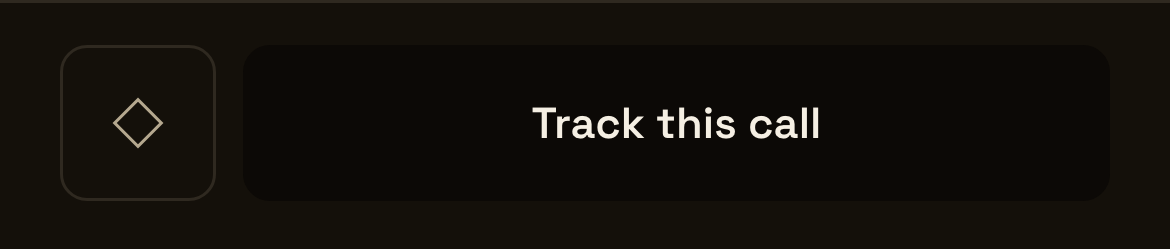
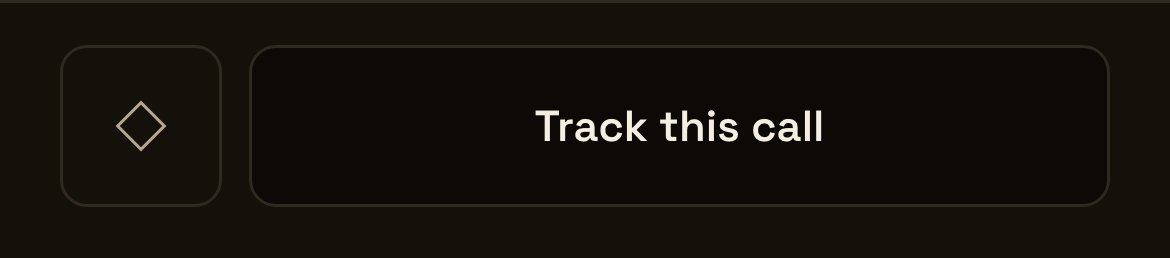
Claim detail: re-plate the fixed layout, record what the suite cannot reach
Plates recaptured against the same real brief call. The two body crops are
replaced by whole-screen crops, because the body crop was evidence of the
layout that just changed: the screen now ends under its own action bar and the
old crop showed the stretched column. The dark bar plate carries the new edge on
the live primary.

The missing plate is recaptured for the corrected copy.

The e2e header now records a limitation rather than a quiet day. Every route
into the screen in that file starts at /ledger, which draws today's brief, so
the only adopted calls it can reach are calls adopted today. An adopted call on
an older brief is exactly the state this route exists for, and this suite cannot
navigate to it.

Claude-Session: https://claude.ai/code/session_016MXsWHKprGBWhV6LECbnnd

diff --git a/e2e/claim-detail.spec.ts b/e2e/claim-detail.spec.ts
@@ -37,6 +37,16 @@
  * is created here, because creating one is a write. Each skips with a stated
  * reason when the day does not carry it, which is a fact about the brief and
  * not a failure of the screen.
+ *
+ * AND THE SECOND OF THOSE IS A REAL LIMITATION OF THIS SUITE, not just a quiet
+ * day. Every route into the screen here starts at /ledger, which draws TODAY's
+ * brief, so the only adopted calls this file can reach are calls adopted from
+ * today. An independent measurement of this branch found an adopted call on an
+ * OLDER brief and reached its screen by address; that is the state /claim
+ * exists for, because a call adopted while its window is open has no /entry
+ * page, and this suite structurally cannot navigate to it. Covering it needs an
+ * entry point that lists a reader's open commitments, or a fixture target, and
+ * neither exists today. Recorded rather than papered over.
  */
 import { test as base, expect, type Page, type Route } from "@playwright/test";
 import { signIn } from "./auth-helper";

diff --git a/src/components/claim/claim-screen.tsx b/src/components/claim/claim-screen.tsx
@@ -56,9 +56,10 @@ const PAD = "var(--v3-pad)";
  * looks like, rather than a gap framed by a rule.
  *
  * `minHeight: 100%` STILL PAINTS THE WHOLE BOX, and that part is load bearing:
- * `main#main-content` is `bg-parchment` (#faf7f2 light, #0f0f0f dark) and this
- * screen is `--c-bg` (#fffdf9, #14100a), so a screen that shrink-wrapped its
- * content would draw a visible two-tone seam across the phone. It resolves
+ * `main#main-content` fills with `bg-parchment` and this screen fills with
+ * `--c-bg`, and those two are not the same value in EITHER theme, so a screen
+ * that shrink-wrapped its content would draw a visible two-tone seam across the
+ * phone. Measured 785px of screen inside an 844px viewport. It resolves
  * against the definite height `main` gives the subtree, which is why the page's
  * gate div carries `h-full`; see the comment there and the longer one at
  * `src/app/ledger/page.tsx:114-123`. */

diff --git a/src/components/claim/claim.module.css b/src/components/claim/claim.module.css
@@ -54,8 +54,9 @@
 
 /* DARK ONLY: an edge on the live primary.
  *
- * Measured on the running build: the button fills with `--c-inverse` (#0c0906)
- * and sits on `--c-bg` (#14100a), which is about 1.05:1. The LABEL is fine,
+ * Measured on the running build: in dark the button fills with `--c-inverse`
+ * and sits on `--c-bg`, and those two resolve about 1.05:1 apart. The LABEL is
+ * fine,
  * `--c-oninv` against that fill is the pair `commit-sheet.tsx:204-217` already
  * corrected to and measures 17.34:1, so a reader can read the words. They just
  * cannot see the button: there is no figure and ground, only a sentence
